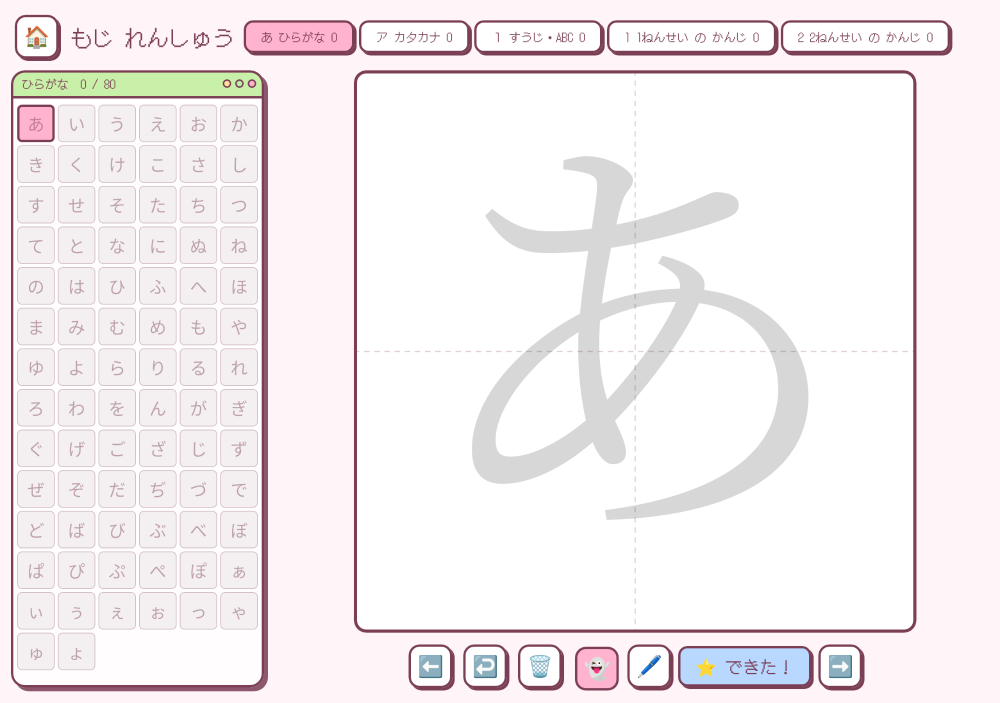
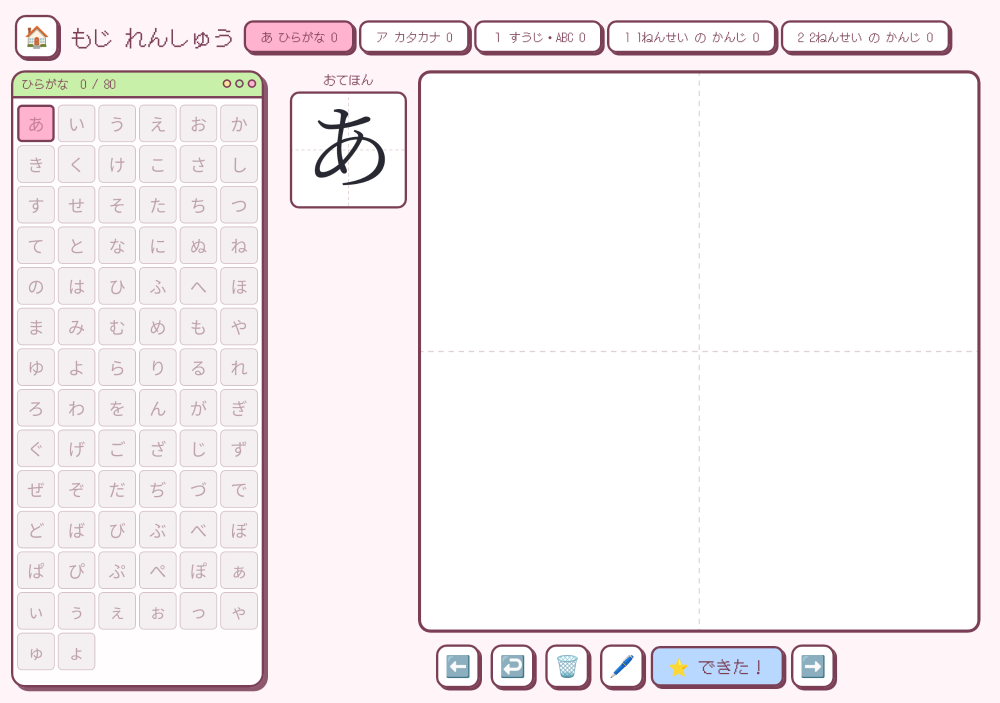
もじ れんしゅう：お手本はなぞらず、よこに小さく表示
Claude-Session: https://claude.ai/code/session_01NhS3xRwFVfssMDMXfSoJEv

diff --git a/app/src/main/java/com/theta/kidshome/ui/MojiScreen.kt b/app/src/main/java/com/theta/kidshome/ui/MojiScreen.kt
@@ -74,7 +74,6 @@ fun MojiScreen(onBack: () -> Unit) {
     val ch = chars.getOrElse(index) { chars.first() }
     val strokes = remember(ch) { mutableStateListOf<MojiStroke>().apply { written[ch]?.let { addAll(it) } } }
     val current = remember { mutableStateListOf<FloatArray>() }
-    var guide by remember { mutableStateOf(true) }
     var penMode by remember { mutableStateOf(context.getSharedPreferences("drawing", 0).getBoolean("pen", false)) }
     var cheer by remember { mutableStateOf<String?>(null) }
 
@@ -128,8 +127,34 @@ fun MojiScreen(onBack: () -> Unit) {
             Spacer(Modifier.width(16.dp))
             // かく ところ
             Column(Modifier.weight(1f).fillMaxHeight(), horizontalAlignment = Alignment.CenterHorizontally) {
+                Row(Modifier.weight(1f), verticalAlignment = Alignment.Top) {
+                // おてほん（よこに 小さく）
+                Column(Modifier.padding(end = 14.dp), horizontalAlignment = Alignment.CenterHorizontally) {
+                    DotText("おてほん", theme, 16, theme.text)
+                    Box(
+                        Modifier.padding(top = 4.dp).width(150.dp).aspectRatio(1f).clip(RoundedCornerShape(12.dp)).background(Color.White)
+                            .border(3.dp, theme.outline, RoundedCornerShape(12.dp))
+                    ) {
+                        Canvas(Modifier.fillMaxSize()) {
+                            val dash = PathEffect.dashPathEffect(floatArrayOf(8f, 7f))
+                            val lc = theme.outline.copy(alpha = 0.25f)
+                            drawLine(lc, Offset(size.width / 2, 0f), Offset(size.width / 2, size.height), 2f, pathEffect = dash)
+                            drawLine(lc, Offset(0f, size.height / 2), Offset(size.width, size.height / 2), 2f, pathEffect = dash)
+                            drawIntoCanvas { cv ->
+                                val p = android.graphics.Paint(android.graphics.Paint.ANTI_ALIAS_FLAG).apply {
+                                    color = android.graphics.Color.rgb(40, 40, 50)
+                                    textSize = size.width * 0.78f
+                                    textAlign = android.graphics.Paint.Align.CENTER
+                                    typeface = android.graphics.Typeface.SERIF
+                                }
+                                val fm = p.fontMetrics
+                                cv.nativeCanvas.drawText(ch, size.width / 2, size.height / 2 - (fm.ascent + fm.descent) / 2, p)
+                            }
+                        }
+                    }
+                }
                 Box(
-                    Modifier.weight(1f).aspectRatio(1f).clip(RoundedCornerShape(16.dp)).background(Color.White)
+                    Modifier.fillMaxHeight().aspectRatio(1f).clip(RoundedCornerShape(16.dp)).background(Color.White)
                         .border(4.dp, theme.outline, RoundedCornerShape(16.dp))
                         .pointerInput(ch, penMode) {
                             awaitEachGesture {
@@ -162,26 +187,16 @@ fun MojiScreen(onBack: () -> Unit) {
                         drawLine(lc, Offset(size.width / 2, 0f), Offset(size.width / 2, size.height), 3f, pathEffect = dash)
                         drawLine(lc, Offset(0f, size.height / 2), Offset(size.width, size.height / 2), 3f, pathEffect = dash)
                         drawIntoCanvas { cv ->
-                            if (guide) {
-                                val p = android.graphics.Paint(android.graphics.Paint.ANTI_ALIAS_FLAG).apply {
-                                    color = android.graphics.Color.argb(40, 0, 0, 0)
-                                    textSize = size.width * 0.78f
-                                    textAlign = android.graphics.Paint.Align.CENTER
-                                    typeface = android.graphics.Typeface.SERIF
-                                }
-                                val fm = p.fontMetrics
-                                cv.nativeCanvas.drawText(ch, size.width / 2, size.height / 2 - (fm.ascent + fm.descent) / 2, p)
-                            }
                             Moji.draw(cv.nativeCanvas, strokes.toList() + listOfNotNull(current.toList().takeIf { it.isNotEmpty() }), 0f, 0f, size.width, android.graphics.Color.rgb(30, 30, 40))
                         }
                     }
+                }
                 }
                 Spacer(Modifier.height(10.dp))
                 Row(verticalAlignment = Alignment.CenterVertically, horizontalArrangement = Arrangement.spacedBy(4.dp)) {
                     RetroIconButton("⬅", theme) { index = (index - 1 + chars.size) % chars.size }
                     RetroIconButton("↩", theme) { if (strokes.isNotEmpty()) strokes.removeAt(strokes.lastIndex) }
                     RetroIconButton("🗑", theme) { strokes.clear() }
-                    RetroIconButton("👻", theme, guide) { guide = !guide }
                     RetroIconButton("🖊", theme, penMode) {
                         penMode = !penMode
                         context.getSharedPreferences("drawing", 0).edit().putBoolean("pen", penMode).apply()

diff --git a/README.md b/README.md
@@ -34,7 +34,7 @@
 - **わーぷろ**（内蔵）：大きな文字、色・大きさ・紙（むじ・せん・ます）・ドット字、えもじ、🎤 こえ入力、📌 ふせん、🖨 印刷、自動保存
 - **パズル**（内蔵）：写真・えほんの絵をピースにして はめる（4〜24 ピース、🔄 回転あり、👻 見本の表示）
 - **タイピング**（内蔵）：物理キーボードでローマ字入力の練習（特打のように、つぎのキーが光り、押す指を色で教える）。📖 ローマじ ひょう、ホームポジション・あいうえお・どうぶつ・たべもの・のりもの・みじかい ぶん
-- **もじ れんしゅう**（内蔵）：マスに ペンで書く（お手本・田の点線・筆圧・ペンモード）。書いた字は 1 字ずつ保存され、いつのまにか その子の **手書きフォントの素材** が集まる。学年に合わせて漢字が増える（4 月に自動で 1 つ上がる）
+- **もじ れんしゅう**（内蔵）：マスに ペンで書く（お手本は よこに小さく・田の点線・筆圧・ペンモード）。書いた字は 1 字ずつ保存され、いつのまにか その子の **手書きフォントの素材** が集まる。学年に合わせて漢字が増える（4 月に自動で 1 つ上がる）
 - **ふせん**：おえかき・わーぷろ から ホームに貼れる。指で動かす、タップで大きく・はがす
 - **どうがロック**：15分〜2時間 / あしたの朝まで。「べんきょうタイム」「ごはんタイム」などの理由を表示
 - **おうちのひとメニュー**：⚙ を **2秒ながおし** → **かけ算**に答える（2けた×1けた、設定で 2けた×2けた）
